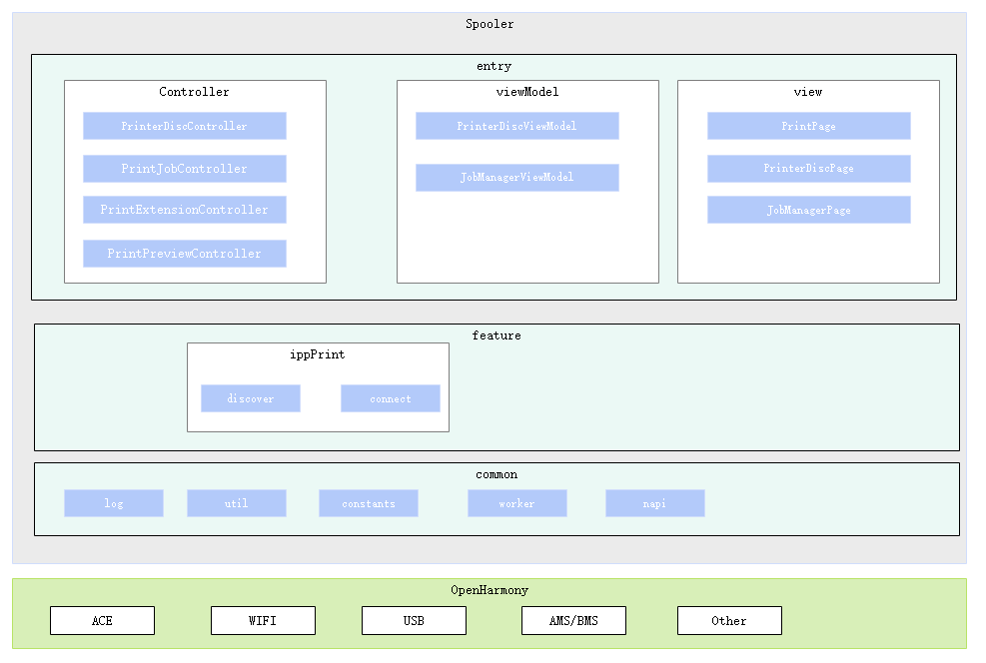
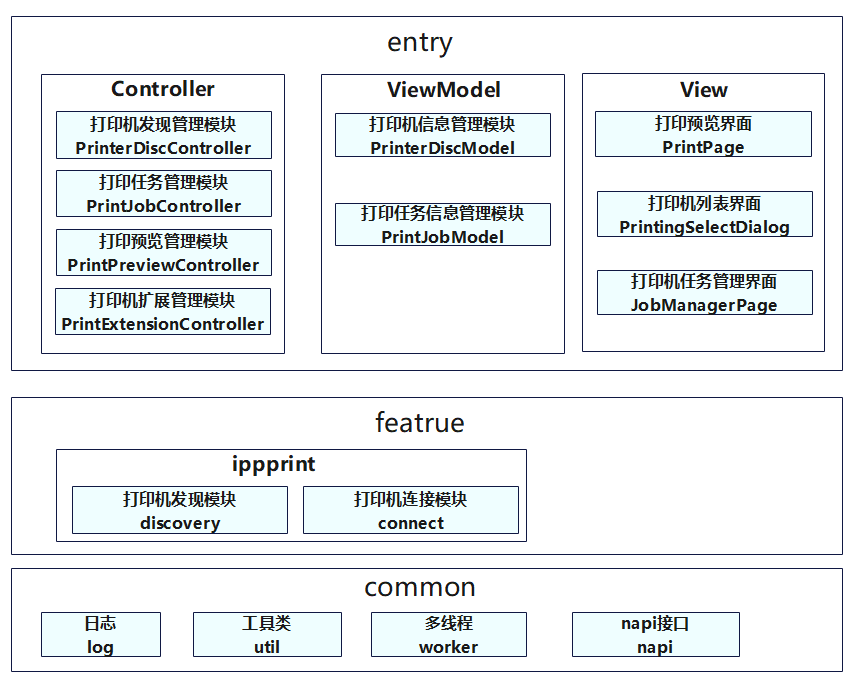
刷新开发文档 Signed-off-by:panhui1@huawei.com

diff --git a/entry/src/main/ets/MainAbility/MainAbility.ts b/entry/src/main/ets/MainAbility/MainAbility.ts
@@ -71,7 +71,7 @@ export default class MainAbility extends UIAbility {
       if (flag) {
         windowStage.setUIContent(this.context, 'pages/PrivacyStatementPage', null);
       } else {
-        windowStage.setUIContent(this.context, 'pages/index', null);
+        windowStage.setUIContent(this.context, 'pages/PrintPage', null);
       }
     });
 
